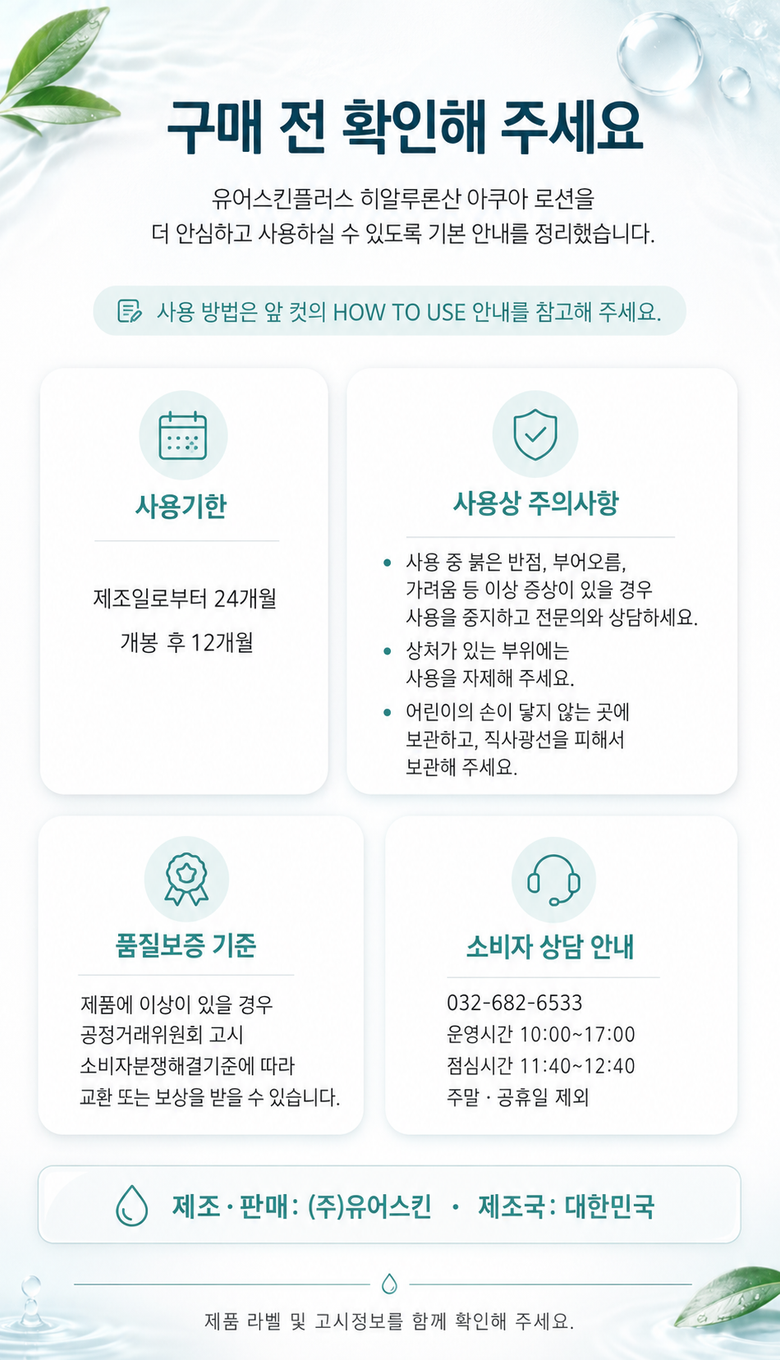
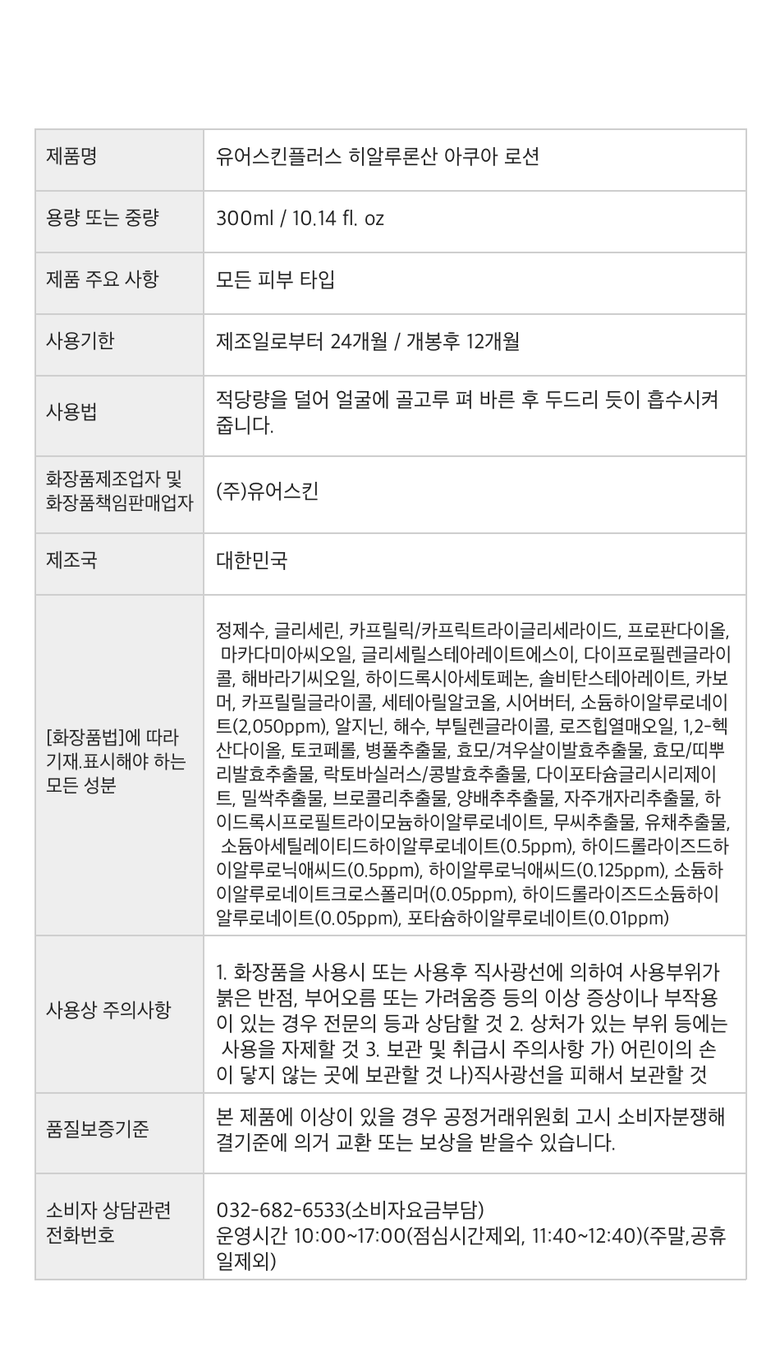
fix: correct cosmetic ingredient tables

diff --git a/scripts/fix_soothing_cream_feedback.py b/scripts/fix_soothing_cream_feedback.py
@@ -1,0 +1,122 @@
+from pathlib import Path
+from PIL import Image, ImageDraw, ImageFont, ImageFilter
+import shutil
+
+ROOT = Path(__file__).resolve().parents[1]
+DETAIL = ROOT / 'public/coupang/images/soothing-cream/versions/v1/detail'
+BACKUP = DETAIL / 'backup-before-review-feedback-20260623'
+BACKUP.mkdir(exist_ok=True)
+
+FONT_PATH = '/System/Library/Fonts/AppleSDGothicNeo.ttc'
+
+def load_font(size, index=0):
+    return ImageFont.truetype(FONT_PATH, size=size, index=index)
+
+def text_width(draw, text, font):
+    if not text:
+        return 0
+    return draw.textbbox((0, 0), text, font=font)[2]
+
+def wrap_korean(draw, text, font, max_width):
+    # token-aware wrap, then char fallback for very long Korean ingredient names.
+    tokens = []
+    for part in text.split(', '):
+        token = part + ', '
+        tokens.append(token)
+    if tokens:
+        tokens[-1] = tokens[-1].rstrip(', ')
+    lines = []
+    line = ''
+    for token in tokens:
+        cand = line + token
+        if text_width(draw, cand, font) <= max_width:
+            line = cand
+            continue
+        if line:
+            lines.append(line.rstrip())
+            line = ''
+        # token too long? split by chars
+        if text_width(draw, token, font) > max_width:
+            buf = ''
+            for ch in token:
+                if text_width(draw, buf + ch, font) <= max_width:
+                    buf += ch
+                else:
+                    lines.append(buf.rstrip())
+                    buf = ch
+            line = buf
+        else:
+            line = token
+    if line:
+        lines.append(line.rstrip())
+    return lines
+
+def fix_detail_14(out_path=None):
+    p = DETAIL / '14.png'
+    backup_file = BACKUP / '14-before-feedback.png'
+    if not backup_file.exists():
+        shutil.copy2(p, backup_file)
+    im = Image.open(backup_file).convert('RGB')
+    draw = ImageDraw.Draw(im)
+    # Ingredient value-cell area only. Keep table borders and left label intact.
+    x0, y0, x1, y1 = 229, 650, 719, 994
+    patch = Image.new('RGB', (x1-x0, y1-y0), (249, 250, 248))
+    im.paste(patch, (x0, y0))
+    fill = (49, 52, 49)
+    ingredients = (
+        '정제수, 글리세린, 부틸렌글라이콜, 글리세릴글루코사이드, 프로판다이올, 카프릴릭/카프릭트라이글리세라이드, '
+        '다이프로필렌글라이콜, 소듐폴리아크릴레이트, 마카다미아씨오일, 글리세릴스테아레이트에스이, '
+        '하이드록시아세토페논, 해바라기씨오일, 1,2-헥산다이올, 솔비탄스테아레이트, 카프릴릴글라이콜, '
+        '세테아릴알코올, 시어버터, 소듐하이알루로네이트(1,000ppm), 카보머, 로즈힙열매오일, '
+        '글루코오스, 토코페롤, 다이포타슘글리시리제이트, 소듐디엔에이(50ppm), '
+        '하이드록시프로필트라이모늄하이알루로네이트(50ppm), 소듐아세틸레이티드하이알루로네이트(5ppm), '
+        '하이드롤라이즈드하이알루로닉애씨드(5ppm), 하이알루로닉애씨드(1.25ppm), '
+        '소듐하이알루로네이트크로스폴리머(0.5ppm), 하이드롤라이즈드소듐하이알루로네이트(0.5ppm), '
+        '포타슘하이알루로네이트(0.1ppm)'
+    )
+    # Fit the longer corrected ingredient list within the existing cell only.
+    for size, line_h in [(19, 25), (18, 24), (17, 23), (16, 22), (15, 21)]:
+        font = load_font(size, 0)
+        lines = wrap_korean(draw, ingredients, font, x1-x0-8)
+        if len(lines) * line_h <= (y1-y0-4):
+            break
+    y = y0 + 2
+    for line in lines:
+        draw.text((x0, y), line, font=font, fill=fill)
+        y += line_h
+    out = Path(out_path) if out_path else p
+    im.save(out, 'PNG')
+    return out, lines, y, size, line_h
+
+def fix_detail_10(out_path=None):
+    p = DETAIL / '10.png'
+    backup_file = BACKUP / '10-before-feedback.png'
+    if not backup_file.exists():
+        shutil.copy2(p, backup_file)
+    im = Image.open(backup_file).convert('RGB')
+    # Work at 3x for smoother patch edges/needle.
+    scale = 3
+    hi = im.resize((im.width * scale, im.height * scale), Image.Resampling.LANCZOS)
+    d = ImageDraw.Draw(hi)
+    def S(v): return int(round(v * scale))
+    # Remove only the green "pH 5.6" capsule. Keep surrounding pH5.0~pH6.5 range text.
+    # Fill with the warm off-white gauge/card background so no number remains.
+    bg = (244, 249, 239)
+    d.rounded_rectangle([S(488), S(640), S(615), S(694)], radius=S(28), fill=bg)
+    # Reconnect the gauge needle through the cleaned area so it does not look erased.
+    needle = (86, 154, 89)
+    d.line([S(558), S(606), S(550), S(692)], fill=needle, width=S(3))
+    # Lightly soften the patched capsule edge by blending only the local patch boundary.
+    out_im = hi.resize(im.size, Image.Resampling.LANCZOS)
+    out = Path(out_path) if out_path else p
+    out_im.save(out, 'PNG')
+    return out
+
+if __name__ == '__main__':
+    out, lines, y, size, line_h = fix_detail_14()
+    print('wrote', out)
+    print('font_size', size, 'line_h', line_h, 'lines', len(lines), 'last_y', y)
+    for line in lines:
+        print(line)
+    out10 = fix_detail_10()
+    print('wrote', out10)

diff --git a/scripts/render_aqua_v4_legal_table.py b/scripts/render_aqua_v4_legal_table.py
@@ -1,3 +1,4 @@
+# -*- coding: utf-8 -*-
 from pathlib import Path
 from PIL import Image, ImageDraw, ImageFont
 import json, textwrap
@@ -15,7 +16,7 @@ rows = [
     ("사용법", "적당량을 덜어 얼굴에 골고루 펴 바른 후 두드리 듯이 흡수시켜 줍니다."),
     ("화장품제조업자 및\n화장품책임판매업자", "(주)유어스킨"),
     ("제조국", "대한민국"),
-    ("[화장품법]에 따라 기재.표시해야 하는 모든 성분", "정제수, 글리세린, 카프릴릭/카프릭트라이글리세라이드, 프로판다이올, 글리세릴스테아레이트에스이, 다이프로필렌글라이콜, 마카다미아씨오일, 글리세릴스테아레이트에스이, 다이프로필렌글라이콜, 해바라기씨오일, 하이드록시아세토페논, 솔비탄스테아레이트, 카보머, 카프릴릴글라이콜, 세테아릴알코올, 시어버터, 소듐하이알루로네이트(2,050ppm), 알지닌, 해수, 부틸렌글라이콜, 로즈힙열매오일, 1,2-헥산다이올, 토코페롤, 병풀추출물, 효모/겨우살이발효추출물, 효모/띠뿌리발효추출물, 락토바실러스/콩발효추출물, 다이포타슘글리시리제이트, 밀싹추출물, 브로콜리추출물, 양배추추출물, 자주개자리추출물, 하이드록시프로필트라이모늄하이알루로네이트, 무씨추출물, 유채추출물, 소듐아세틸레이티드하이알루로네이트(0.5ppm), 하이드롤라이즈드하이알루로닉애씨드(0.5ppm), 하이알루로닉애씨드(0.125ppm), 소듐하이알루로네이트크로스폴리머(0.05ppm), 하이드롤라이즈드소듐하이알루로네이트(0.05ppm), 포타슘하이알루로네이트(0.01ppm)"),
+    ("[화장품법]에 따라 기재.표시해야 하는 모든 성분", "정제수, 글리세린, 카프릴릭/카프릭트라이글리세라이드, 프로판다이올, 마카다미아씨오일, 글리세릴스테아레이트에스이, 다이프로필렌글라이콜, 해바라기씨오일, 하이드록시아세토페논, 솔비탄스테아레이트, 카보머, 카프릴릴글라이콜, 세테아릴알코올, 시어버터, 소듐하이알루로네이트(2,050ppm), 알지닌, 해수, 부틸렌글라이콜, 로즈힙열매오일, 1,2-헥산다이올, 토코페롤, 병풀추출물, 효모/겨우살이발효추출물, 효모/띠뿌리발효추출물, 락토바실러스/콩발효추출물, 다이포타슘글리시리제이트, 밀싹추출물, 브로콜리추출물, 양배추추출물, 자주개자리추출물, 하이드록시프로필트라이모늄하이알루로네이트, 무씨추출물, 유채추출물, 소듐아세틸레이티드하이알루로네이트(0.5ppm), 하이드롤라이즈드하이알루로닉애씨드(0.5ppm), 하이알루로닉애씨드(0.125ppm), 소듐하이알루로네이트크로스폴리머(0.05ppm), 하이드롤라이즈드소듐하이알루로네이트(0.05ppm), 포타슘하이알루로네이트(0.01ppm)"),
     ("사용상 주의사항", "1. 화장품을 사용시 또는 사용후 직사광선에 의하여 사용부위가 붉은 반점, 부어오름 또는 가려움증 등의 이상 증상이나 부작용이 있는 경우 전문의 등과 상담할 것 2. 상처가 있는 부위 등에는 사용을 자제할 것 3. 보관 및 취급시 주의사항 가) 어린이의 손이 닿지 않는 곳에 보관할 것 나)직사광선을 피해서 보관할 것"),
     ("품질보증기준", "본 제품에 이상이 있을 경우 공정거래위원회 고시 소비자분쟁해결기준에 의거 교환 또는 보상을 받을수 있습니다."),
     ("소비자 상담관련\n전화번호", "032-682-6533(소비자요금부담)\n운영시간 10:00~17:00(점심시간제외, 11:40~12:40)(주말,공휴일제외)"),

diff --git a/scripts/render-cleansing-gel-v1-legal-table.py b/scripts/render-cleansing-gel-v1-legal-table.py
@@ -1,0 +1,78 @@
+from pathlib import Path
+from PIL import Image, ImageDraw, ImageFont
+import argparse
+
+ROOT = Path('/Users/elfguy/alba/cosmetic-commerce')
+DEFAULT_SOURCE = ROOT / 'public/coupang/images/cleansing-gel/versions/v1/detail/13.png'
+FONT_PATH = '/System/Library/Fonts/AppleSDGothicNeo.ttc'
+
+INGREDIENTS = (
+    '정제수, 라우릴글루코사이드, 글리세린, 다이소듐코코암포다이아세테이트, '
+    '소듐라우로일글루타메이트, 소듐클로라이드, 코코-글루코사이드, '
+    '아크릴레이트/C10-30알킬아크릴레이트크로스폴리머, 다이프로필렌글라이콜, '
+    '하이드록시아세토페논, 카프릴릴글라이콜, 알란토인, 시트릭애씨드, 부틸렌글라이콜, '
+    '헥실렌글라이콜, 다이소듐이디티에이, 1,2-헥산다이올, 다이포타슘글리시리제이트, '
+    '밀싹추출물, 브로콜리추출물, 양배추추출물, 자주개자리추출물, 무씨추출물, 유채추출물, '
+    '소듐하이알루로네이트, 하이드록시프로필트라이모늄하이알루로네이트, '
+    '소듐아세틸레이티드하이알루로네이트, 하이드롤라이즈드하이알루로닉애씨드, '
+    '하이알루로닉애씨드, 소듐하이알루로네이트크로스폴리머, '
+    '하이드롤라이즈드소듐하이알루로네이트, 포타슘하이알루로네이트'
+)
+
+
+def wrap_ingredients(draw, text, font, max_width):
+    # Keep each comma attached to the preceding ingredient so a wrapped line never starts with punctuation.
+    parts = text.split(', ')
+    tokens = [part + (',' if i < len(parts) - 1 else '') for i, part in enumerate(parts)]
+    lines = []
+    current = ''
+    for token in tokens:
+        candidate = token if not current else current + ' ' + token
+        if not current or draw.textlength(candidate, font=font) <= max_width:
+            current = candidate
+        else:
+            lines.append(current)
+            current = token
+    if current:
+        lines.append(current)
+    return lines
+
+
+def render(source, output):
+    image = Image.open(source).convert('RGB')
+    if image.size != (780, 1360):
+        raise ValueError(f'Expected 780x1360 source, got {image.size}')
+    draw = ImageDraw.Draw(image)
+
+    # Current V1 legal-table ingredient value cell. Preserve all grid lines and the left legal label.
+    x0, y0, x1, y1 = 198, 577, 746, 966
+    background = image.getpixel((720, 600))
+    draw.rectangle((x0, y0, x1, y1), fill=background)
+
+    text_color = (34, 34, 34)
+    for size, line_height in [(21, 30), (20, 29), (19, 28), (18, 27), (17, 26)]:
+        font = ImageFont.truetype(FONT_PATH, size=size, index=0)
+        lines = wrap_ingredients(draw, INGREDIENTS, font, x1 - x0 - 20)
+        if len(lines) * line_height <= y1 - y0 - 18:
+            break
+    y = y0 + 9
+    for line in lines:
+        draw.text((x0 + 9, y), line, font=font, fill=text_color)
+        y += line_height
+
+    output = Path(output)
+    output.parent.mkdir(parents=True, exist_ok=True)
+    image.save(output, 'PNG')
+    return output, lines, size, line_height, y
+
+
+if __name__ == '__main__':
+    parser = argparse.ArgumentParser()
+    parser.add_argument('--source', default=str(DEFAULT_SOURCE))
+    parser.add_argument('--output', required=True)
+    args = parser.parse_args()
+    out, lines, size, line_height, end_y = render(Path(args.source), Path(args.output))
+    print(out)
+    print('font_size', size, 'line_height', line_height, 'lines', len(lines), 'end_y', end_y)
+    print('contains_arg', '알지닌' in INGREDIENTS)
+    print('contains_citric_acid', '시트릭애씨드' in INGREDIENTS)
